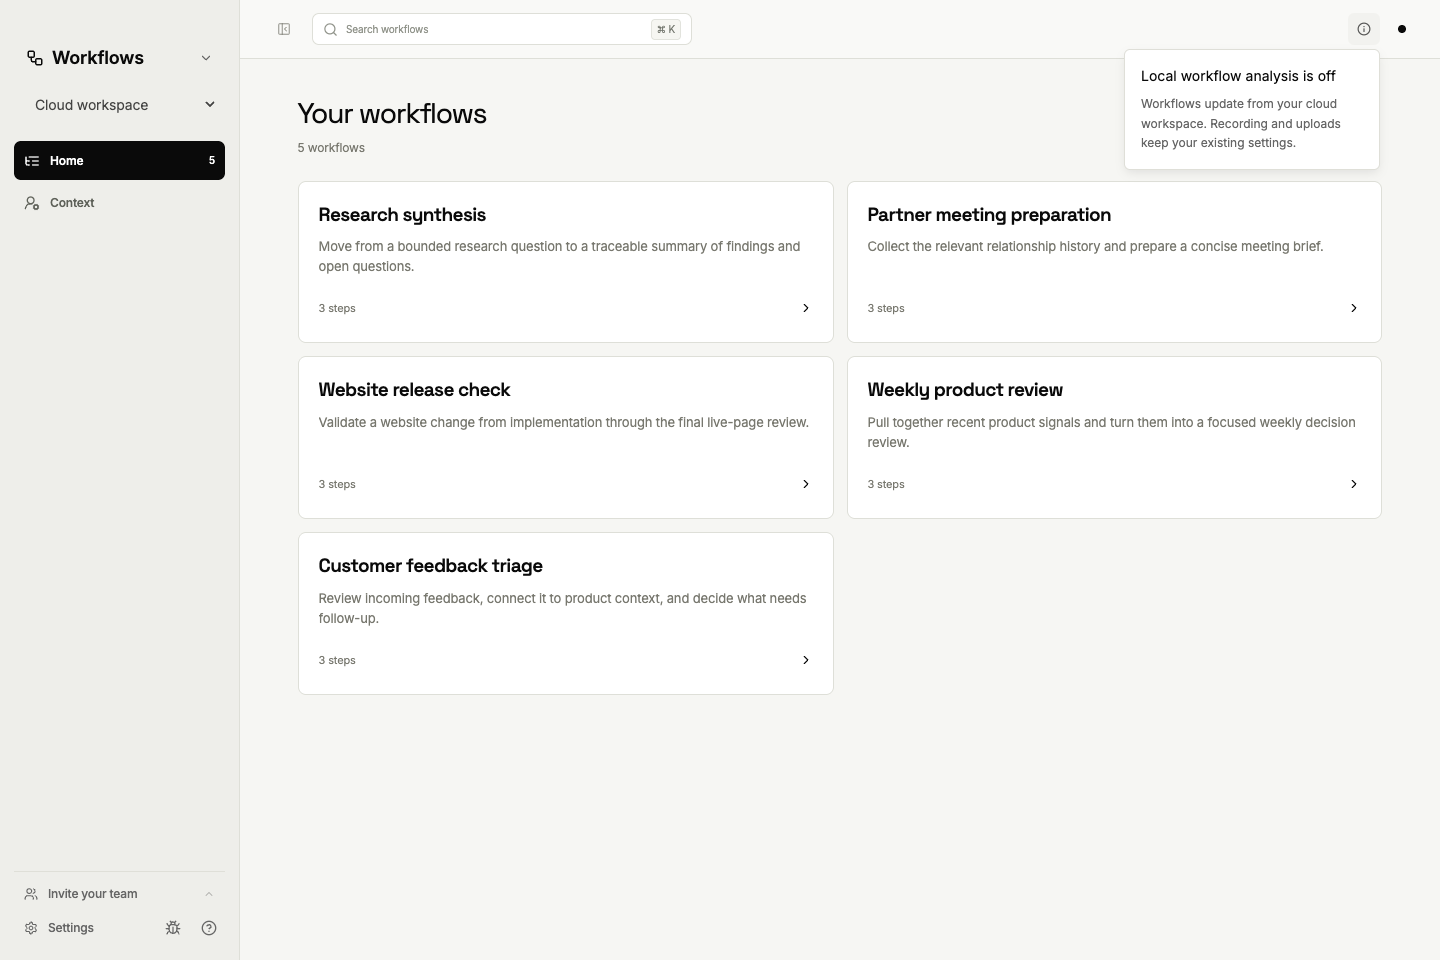
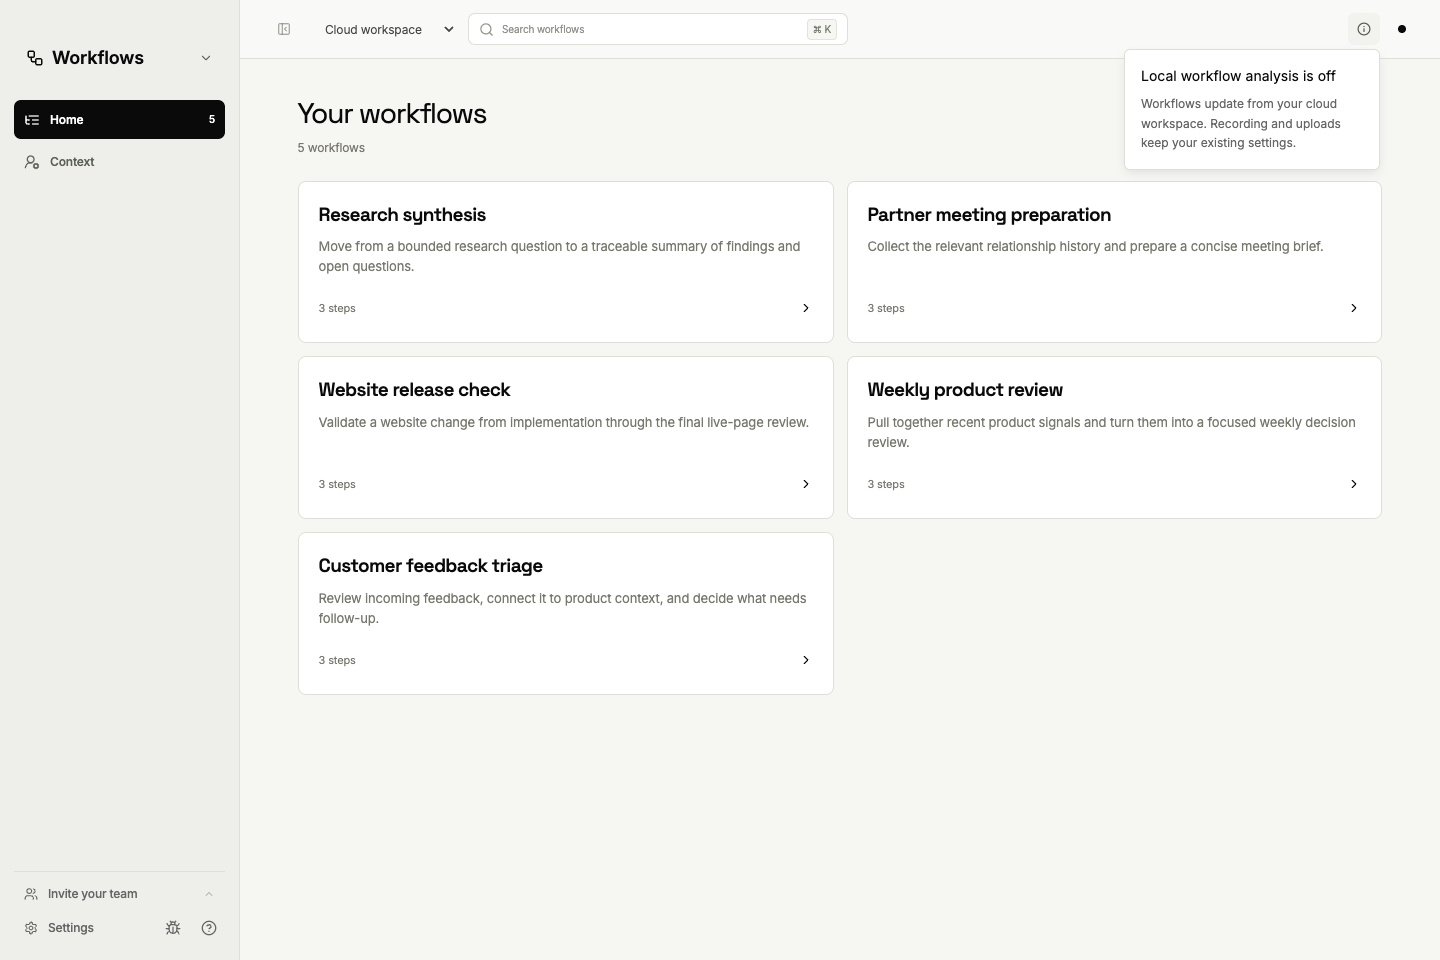
Move workflow source selection into the shared top bar

Changed region(s): [[0.0, 0.0938, 0.1562, 0.2188], [0.2188, 0.0, 0.2812, 0.0625]]

diff --git a/packages/workflows-ui/src/workflows-app.tsx b/packages/workflows-ui/src/workflows-app.tsx
@@ -368,6 +368,7 @@ export function AppShell({
   embedded,
   active,
   navigationBrand,
+  sourceControl,
   composerAccessory,
   navigationFooter,
   recordingStatus,
@@ -391,6 +392,7 @@ export function AppShell({
   embedded: boolean;
   active: boolean;
   navigationBrand?: React.ReactNode;
+  sourceControl?: React.ReactNode;
   composerAccessory?: WorkflowsAppProps["composerAccessory"];
   navigationFooter?: WorkflowsAppProps["navigationFooter"];
   recordingStatus?: React.ReactNode;
@@ -492,8 +494,9 @@ export function AppShell({
         {!embedded && !navigationCollapsed && <div {...navigationWidth.separatorProps} className={`${styles.navigationResize} ${navigationWidth.resizing ? styles.navigationResizing : ""}`} />}
       </aside>
       <section className={styles.workspace} data-workflows-scroll-region>
-        <header className={styles.topbar} data-tauri-drag-region>
+        <header className={`${styles.topbar} ${sourceControl ? styles.sourceTopbar : ""}`} data-tauri-drag-region>
           {!nativeMacWindow && navigationToggle}
+          {sourceControl}
           <div className={styles.search}><Search size={15} /><input data-workflows-search value={query} onChange={(event) => setQuery(event.target.value)} onFocus={() => navigate("workflows")} placeholder={ui("Search workflows")} aria-label={ui("Search workflows")} />{query ? <button type="button" onClick={() => setQuery("")} aria-label={ui("Clear search")}><X size={12} /></button> : <button type="button" className={styles.commandTrigger} onMouseDown={(event) => event.preventDefault()} onClick={openCommandPalette} aria-label={ui("Open command palette")}><CommandIcon size={12} /><kbd>⌘ K</kbd></button>}</div>
           {scopes.length > 1 && <label className={styles.scopeControl}>
             {activeScope?.kind === "organization" ? <Building2 size={13} /> : <Users size={13} />}
@@ -1288,7 +1291,7 @@ function PrivacyView({ runtime }: { runtime: WorkflowRuntime | null }) {
   </>;
 }
 
-export function WorkflowsApp({ readyWorkflowIds, reviewRequest, onReviewRequestHandled, platform, initialAnalysis = null, storageKey = "screenpipe-workflows:last-analysis-v2", initialScopeId, embedded = false, active = true, fullscreen = false, navigationBrand, composerAccessory, recordingStatus, statusNotice, toolbarAccessory, analysisUnavailableReason, onAnalysisUnavailable, navigationFooter, onShareWorkflow, workflowAgentActions }: WorkflowsAppProps) {
+export function WorkflowsApp({ readyWorkflowIds, reviewRequest, onReviewRequestHandled, platform, initialAnalysis = null, storageKey = "screenpipe-workflows:last-analysis-v2", initialScopeId, embedded = false, active = true, fullscreen = false, navigationBrand, sourceControl, composerAccessory, recordingStatus, statusNotice, toolbarAccessory, analysisUnavailableReason, onAnalysisUnavailable, navigationFooter, onShareWorkflow, workflowAgentActions }: WorkflowsAppProps) {
   const uiLanguage = useLocale();
   const ui = useGT();
   const shortcuts = useSidebarShortcuts();
@@ -1695,7 +1698,7 @@ export function WorkflowsApp({ readyWorkflowIds, reviewRequest, onReviewRequestH
   }
 
   return <>
-    <AppShell toolbarAccessory={toolbarAccessory} modelControl={platform.modelPreference ? <WorkflowModelControl preference={platform.modelPreference} /> : undefined} composerAccessory={composerAccessory} active={active} fullscreen={fullscreen} navigationFooter={navigationFooter} navigationBrand={navigationBrand} recordingStatus={recordingStatus} view={view} navigate={navigate} runtime={runtime} workflowCount={knownWorkflows.length} query={filters.query} setQuery={(query) => setFilters((current) => ({ ...current, query }))} activeScope={activeScope} scopes={scopes} setScope={selectScope} embedded={embedded} startWindowDrag={platform.startWindowDrag} openCommandPalette={() => setCommandPaletteOpen(true)} assistant={platform.assistant ? { platform: platform.assistant, context: view === "workflow" && activeWorkflow ? { key: `workflow:${activeWorkflow.title}`, title: activeWorkflow.title, workflow: activeWorkflow } : view === "profile" ? { key: "profile", title: ui("Context"), profile: workProfile } : { key: "workflows", title: ui("Your workflows"), catalog: workflows.map(({ title, description }) => ({ title, description })) } } : undefined}>{statusNotice}
+    <AppShell sourceControl={sourceControl} toolbarAccessory={toolbarAccessory} modelControl={platform.modelPreference ? <WorkflowModelControl preference={platform.modelPreference} /> : undefined} composerAccessory={composerAccessory} active={active} fullscreen={fullscreen} navigationFooter={navigationFooter} navigationBrand={navigationBrand} recordingStatus={recordingStatus} view={view} navigate={navigate} runtime={runtime} workflowCount={knownWorkflows.length} query={filters.query} setQuery={(query) => setFilters((current) => ({ ...current, query }))} activeScope={activeScope} scopes={scopes} setScope={selectScope} embedded={embedded} startWindowDrag={platform.startWindowDrag} openCommandPalette={() => setCommandPaletteOpen(true)} assistant={platform.assistant ? { platform: platform.assistant, context: view === "workflow" && activeWorkflow ? { key: `workflow:${activeWorkflow.title}`, title: activeWorkflow.title, workflow: activeWorkflow } : view === "profile" ? { key: "profile", title: ui("Context"), profile: workProfile } : { key: "workflows", title: ui("Your workflows"), catalog: workflows.map(({ title, description }) => ({ title, description })) } } : undefined}>{statusNotice}
       {/* Keep drafts, imports and the active fill alive when navigating away.
           A different scope must tear down the old request before accepting fields. */}
       <div key={`${activeScope?.kind ?? "personal"}:${activeScope?.id ?? ""}`} hidden={view !== "profile"}>

diff --git a/apps/screenpipe-app-tauri/components/workflows/integrated-workflows.tsx b/apps/screenpipe-app-tauri/components/workflows/integrated-workflows.tsx
@@ -97,7 +97,7 @@ export function DeviceWorkflows({ active, fullscreen = false, onModeChange, reco
       <WorkflowsApp readyWorkflowIds={readyWorkflowIds} reviewRequest={reviewRequest} onReviewRequestHandled={handleReview} onAnalysisUnavailable={() => setAccessRequested(true)} analysisUnavailableReason={analysisUnavailableReason} composerAccessory={composerAccessory} fullscreen={fullscreen} onShareWorkflow={openShare} workflowAgentActions={workflowAgentActions} platform={platform} active={active} storageKey={null}
         toolbarAccessory={platform.managesAnalysis ? <WorkflowAccess requested={accessRequested} onRequestChange={setAccessRequested} active={active} onAccessChange={setAnalysisUnavailableReason} /> : process.env.NEXT_PUBLIC_SCREENPIPE_WEB_DEV === "mock" ? <WorkflowTasksPrompt active={active} tasks={fixtureWorkflowTasks} /> : undefined}
         recordingStatus={recordingStatus} navigationFooter={navigationFooter}
-        navigationBrand={<><ProductSwitcher mode="workflows" onChange={onModeChange} /><div className="px-2 pt-2">{sourceControl}</div></>} />
+        sourceControl={sourceControl} navigationBrand={<ProductSwitcher mode="workflows" onChange={onModeChange} />} />
     </TooltipProvider>
   );
 }
@@ -120,11 +120,11 @@ export function IntegratedWorkflows(props: Parameters<typeof DeviceWorkflows>[0]
     catch { setError("Could not save the workflow source. Try again."); }
     finally { setSaving(false); }
   }
-  const sourceControl = <label className="flex flex-col gap-2 text-xs"><span className="sr-only">Workflow source</span>
-    <select aria-label="Workflow source" className="w-full rounded-md border border-transparent bg-transparent px-2 py-1.5 text-sm text-inherit opacity-75 hover:opacity-100 hover:bg-muted/40 focus-visible:outline-none focus-visible:ring-1 focus-visible:ring-ring" value={source} disabled={saving} onChange={event => void change(event.target.value as "device" | "cloud")}>
+  const sourceControl = <label className="relative flex shrink-0 flex-col gap-2 text-xs"><span className="sr-only">Workflow source</span>
+    <select aria-label="Workflow source" style={{ color: "var(--ink)", colorScheme: "light" }} className="w-36 rounded-md border border-transparent bg-transparent px-2 py-1.5 text-xs text-inherit opacity-75 hover:opacity-100 hover:bg-muted/40 focus-visible:outline-none focus-visible:ring-1 focus-visible:ring-ring" value={source} disabled={saving} onChange={event => void change(event.target.value as "device" | "cloud")}>
       <option value="cloud">Cloud workspace</option><option value="device">This device</option>
     </select>
-    {error && <span role="alert">{error}</span>}
+    {error && <span role="alert" className="absolute left-0 top-full z-20 mt-1 w-60 rounded-md border bg-background p-3 text-foreground shadow-sm">{error}</span>}
   </label>;
   return source === "cloud"
     ? <TooltipProvider><CloudWorkflows key={settings.user?.token ?? "signed-out"} {...props} sourceControl={sourceControl} token={settings.user?.token ?? undefined} api={mock ? fixtureCloudWorkflows : undefined} /></TooltipProvider>

diff --git a/apps/screenpipe-app-tauri/components/workflows/cloud-workflows.tsx b/apps/screenpipe-app-tauri/components/workflows/cloud-workflows.tsx
@@ -101,7 +101,7 @@ export function CloudWorkflows({ active, token, onModeChange, recordingStatus, n
       query={filters.query} setQuery={query => setFilters(current => ({ ...current, query }))}
       activeScope={null} scopes={[]} setScope={() => {}} embedded={false} active={active} fullscreen={fullscreen}
       startWindowDrag={process.env.NEXT_PUBLIC_SCREENPIPE_WEB_DEV === "mock" ? undefined : () => getCurrentWindow().startDragging().catch(() => {})}
-      navigationBrand={<><ProductSwitcher mode="workflows" onChange={onModeChange} /><div className="px-2 pt-2">{sourceControl}</div></>}
+      sourceControl={sourceControl} navigationBrand={<ProductSwitcher mode="workflows" onChange={onModeChange} />}
       navigationFooter={navigationFooter} recordingStatus={recordingStatus} toolbarAccessory={processing}
       openCommandPalette={() => setShortcuts(true)}>
       {localState === "error" && <div role="alert" className="mb-6 rounded-md border p-4 text-sm">Some local workflow jobs may still be running. <button className="underline" onClick={refresh}>Retry stopping local analysis</button></div>}

diff --git a/apps/screenpipe-app-tauri/components/workflows/workflow-source.test.tsx b/apps/screenpipe-app-tauri/components/workflows/workflow-source.test.tsx
@@ -11,7 +11,7 @@ vi.mock("./cloud-workflows", () => ({ CloudWorkflows: ({ sourceControl }: any) =
 vi.mock("@/lib/workflows/desktop-platform", () => ({ desktopWorkflowsPlatform: {} }));
 vi.mock("@/components/settings/connections-section", () => ({ ConnectionsSection: () => null }));
 vi.mock("@/components/connected-share-dialog", () => ({ ConnectedShareDialog: () => null }));
-vi.mock("@screenpipe/workflows-ui", () => ({ WorkflowsApp: ({ navigationBrand }: any) => <div>Device catalog{navigationBrand}</div> }));
+vi.mock("@screenpipe/workflows-ui", () => ({ WorkflowsApp: ({ navigationBrand, sourceControl }: any) => <div>Device catalog{navigationBrand}{sourceControl}</div> }));
 import { IntegratedWorkflows } from './integrated-workflows';
 const props = { active: true, onModeChange: vi.fn(), recordingStatus: null };
 beforeEach(() => { state.enterprise = true; state.resolved = true; state.loaded = true; state.enabled = true; state.source = undefined; state.save.mockReset().mockResolvedValue(undefined); });

diff --git a/packages/workflows-ui/src/platform.ts b/packages/workflows-ui/src/platform.ts
@@ -157,6 +157,8 @@ export type WorkflowsAppProps = {
     openKeyboardShortcuts: () => void;
   }) => import("react").ReactNode;
   navigationBrand?: import("react").ReactNode;
+  /** Data-source selection stays in the toolbar when navigation is collapsed. */
+  sourceControl?: import("react").ReactNode;
   composerAccessory?: import("./assistant").WorkflowComposerAccessory;
   /** Open the host sharing review; clicking must not send the workflow. */
   onShareWorkflow?: (workflow: WorkflowMap) => void;

diff --git a/packages/workflows-ui/src/workflows-app.module.css b/packages/workflows-ui/src/workflows-app.module.css
@@ -1088,3 +1088,9 @@
   .topbar:has(.toolbarAccessory) .search { flex: 1 1 calc(100% - 52px); min-width: 0; }
   .toolbarAccessory { margin-right: auto; }
 }
+
+/* Source selection and device controls share the available toolbar width. */
+@container workflow-pane (max-width: 900px) {
+  .sourceTopbar { height: auto; min-height: 59px; flex-wrap: wrap; padding-top: 12px; padding-bottom: 12px; }
+  .sourceTopbar .search { flex: 1 1 220px; min-width: 220px; width: auto; margin-right: auto; }
+}
